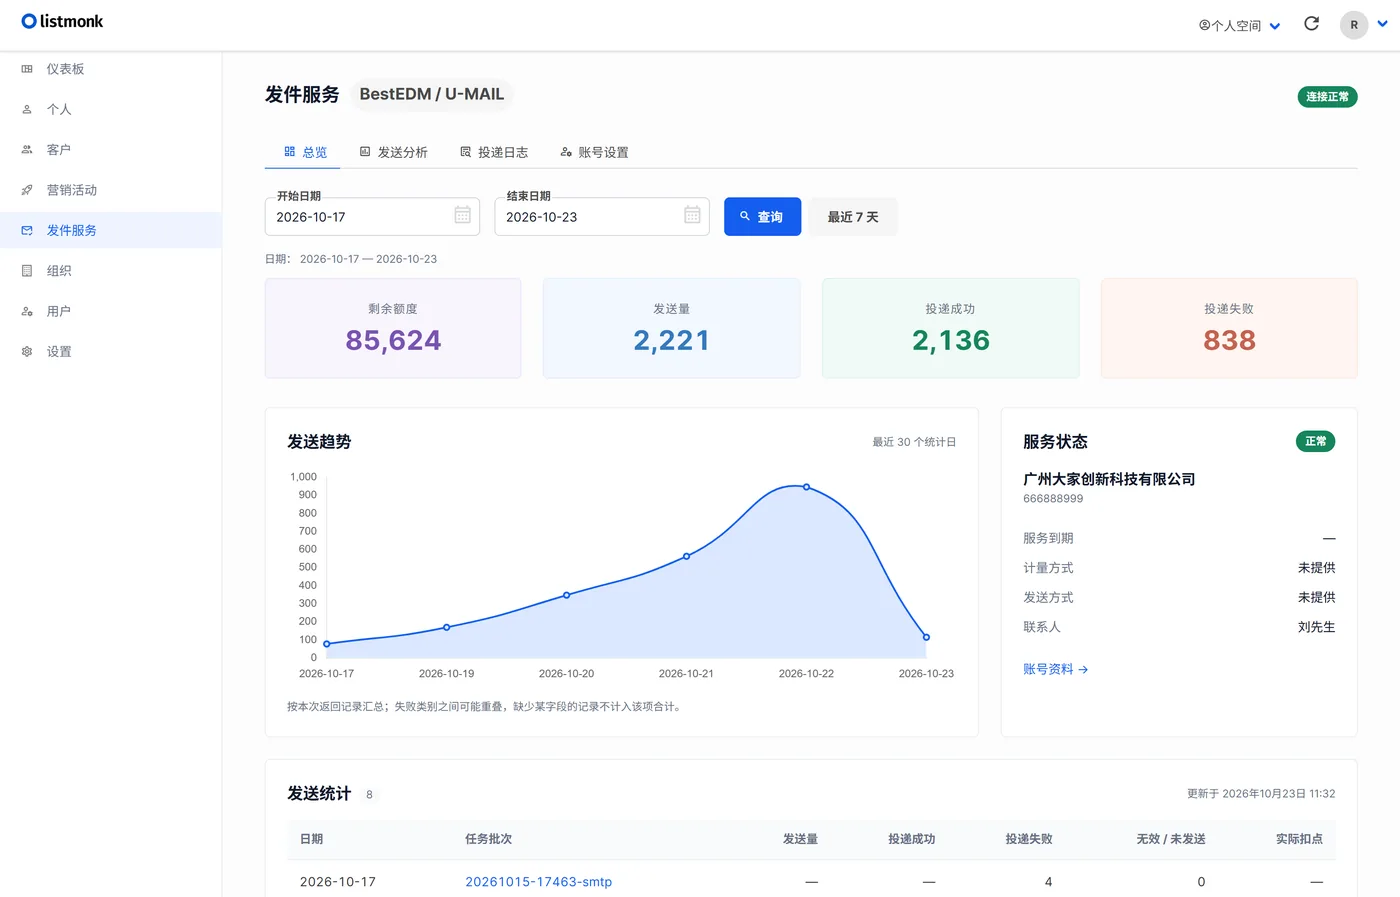
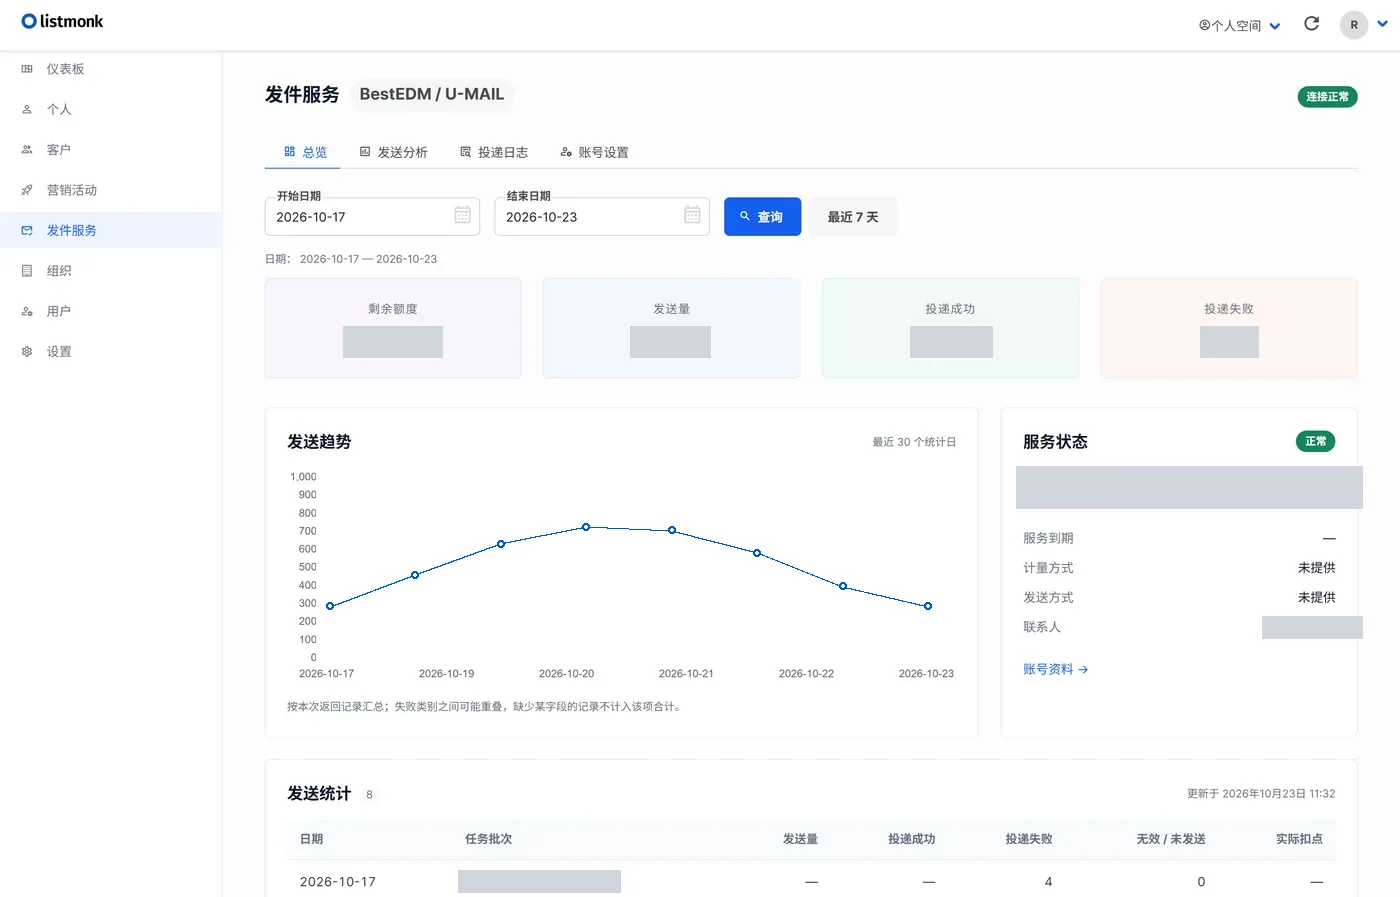
docs: document the agent skill in the README
Add an Agents section describing the bundled OpenClaw marketing skill, its references, scripts, setup steps and safety boundaries, link it from the navigation and hero figure, and document the delivery provider screenshot masking workflow.

diff --git a/README.md b/README.md
@@ -16,9 +16,10 @@
 [![API](https://img.shields.io/badge/API-REST%20%2B%20Swagger-85EA2D?logo=swagger&logoColor=black)](docs/swagger/)
 [![E2E](https://img.shields.io/badge/E2E-Cypress%20x49-17202C?logo=cypress&logoColor=white)](frontend/cypress/e2e)
 [![Migrations](https://img.shields.io/badge/Migrations-76-7a5af8)](internal/migrations)
+[![Agent Skill](https://img.shields.io/badge/Agent%20Skill-OpenClaw-6f42c1)](skills/listmonk-openclaw-marketing)
 [![i18n](https://img.shields.io/badge/i18n-zh--CN%20%7C%20zh--TW%20%7C%20en-ff6b6b)](i18n)
 
-[亮点](#highlights) · [功能概览](#features) · [界面导览](#screenshots) · [系统架构](#architecture) · [快速开始](#quickstart) · [技术文档](#techdocs) · [文档索引](#index)
+[亮点](#highlights) · [功能概览](#features) · [智能体接入](#agents) · [界面导览](#screenshots) · [系统架构](#architecture) · [快速开始](#quickstart) · [技术文档](#techdocs) · [文档索引](#index)
 
 </div>
 
@@ -40,6 +41,7 @@
   - [组织、工作区与权限](#f-org)
   - [发件池与 AI 回信](#f-delivery)
   - [媒体库与模板](#f-media)
+- [智能体接入](#agents)
 - [界面导览](#screenshots)
 - [系统架构](#architecture)
 - [快速开始](#quickstart)
@@ -251,6 +253,75 @@
 <td align="center"><sub><b>邮件模板</b> · 活动 / 事务模板与共享范围</sub></td>
 </tr>
 </table>
+
+<a id="agents"></a>
+
+## 智能体接入
+
+仓库自带一个可直接投喂给智能体平台的 **Skill**：`skills/listmonk-openclaw-marketing`。
+它把本部署的 REST 接口、权限边界和操作顺序固化成文档和脚本，
+让 OpenClaw 一类的智能体不必猜测参数就能完成营销操作。
+
+> Skill 是**给智能体读的说明书 + 一组受限脚本**，不是一个独立服务。
+> 它复用现有 API 与个人 API Key，不新增端口、不连接数据库、不绕过权限。
+
+### 包含内容
+
+| 文件 | 作用 |
+| --- | --- |
+| `SKILL.md` | 技能入口：适用场景、认证方式、标准流程、边界与红线 |
+| `references/api-reference.md` | 逐接口的参数、scope、返回值与脱敏规则 |
+| `references/rest-workflow.md` | 可照抄的执行顺序、curl 示例与异常恢复 |
+| `references/reply-ai.md` | AI 回信分类的能力边界与判读规则 |
+| `scripts/` | 9 个 Python 脚本，仅依赖标准库（Excel 需 `openpyxl`） |
+| `tests/` | 46 个测试，覆盖接口契约、CLI 参数与脚本行为 |
+| `agents/openai.yaml` | 智能体平台识别的技能元数据（名称、简介、默认提示词） |
+
+### 脚本
+
+| 脚本 | 用途 |
+| --- | --- |
+| `ensure_list.py` | 按 ID 复用或按名称查找 / 创建客户列表 |
+| `import_subscribers.py` | 从 JSON 或 .xlsx 导入私域客户 |
+| `clone_template.py` | 克隆模板到绑定工作区 |
+| `create_campaign.py` | 创建草稿，或复用已有活动作为内容蓝本 |
+| `update_campaign_status.py` | 启动、排期、暂停、取消或撤回排期 |
+| `fetch_campaign_reports.py` | 单活动 / 多活动 / 全工作区报表，可选地理分布 |
+| `inspect_campaign_delivery.py` | 只读：发送概览、失败原因与失败客户名单 |
+| `inspect_customer_replies.py` | 只读：客户活动与 AI 回信分类结论 |
+| `run_marketing_flow.py` | 串起列表 → 客户 → 模板 → 草稿 → 可选启动 |
+
+### 接入步骤
+
+1. 在 **Profile → API Keys** 创建个人 Key，勾选所需 scope（最小权限即可）。
+2. 把 `skills/listmonk-openclaw-marketing` 整个目录放进智能体平台的技能目录，
+   或将 `SKILL.md` 及其 `references/` 作为上下文加载。
+3. 在技能目录复制 [`.env.example`](skills/listmonk-openclaw-marketing/.env.example) 为 `.env` 并填写：
+
+```dotenv
+LISTMONK_BASE_URL=https://listmonk.example.com
+LISTMONK_BEARER_TOKEN=lmpk_...
+```
+
+4. 让智能体按任务读取对应 reference，再执行脚本或直接构造 REST 请求。
+
+键的优先级为：命令行 > 进程环境 > 技能目录 `.env` > 当前目录 `.env`，
+因此也可以完全不落盘，改用环境变量注入。
+
+### 安全边界
+
+- **Key 绑定工作区**：个人 Key 固定属于个人空间或某一个组织，跨工作区操作会被拒绝。
+- **最小 scope**：只读任务给只读 scope；`campaigns:send` 与 `transactional:send` 会真实发信。
+- **前缀白名单**：个人 Key 无法访问 `/api/settings`、`/api/pools/*`、
+  `/api/organizations/*`、`/api/profile/*` 等管理端点，即使角色权限更高也不行。
+- **只读优先**：两个 `inspect_*` 脚本不含任何写操作，适合先诊断再决策。
+- `.env` 已被 `.gitignore` 排除，不要把 Key 写进 SKILL.md 或提交记录。
+
+> 智能体做的是「按既定流程调用 API」。发送、补发、拉黑这类不可撤回的动作，
+> 仍应在人工确认后再触发。
+
+详见 [SKILL.md](skills/listmonk-openclaw-marketing/SKILL.md) 与 
+[API reference](skills/listmonk-openclaw-marketing/references/api-reference.md)。
 
 <a id="screenshots"></a>
 

diff --git a/docs/readme/README.md b/docs/readme/README.md
@@ -27,7 +27,7 @@
 | `settings.webp` | 设置页：常规标签。 |
 | `settings-smtp.webp` | 设置 › SMTP 投递设置。 |
 | `settings-inbound-ai.webp` | 设置 › 回信 AI 分类。 |
-| `delivery-provider.webp` | 发件服务：发送分析与投递日志。 |
+| `delivery-provider.webp` | 发件服务：发送分析与投递日志（已打码，见下节）。 |
 | `bounces.webp` | 退信列表。 |
 | `media-library.webp` | 媒体库：组织 / 所有者筛选。 |
 | `templates.webp` | 邮件模板列表。 |
@@ -38,6 +38,25 @@
 截图不是手工裁剪的。流程为：启动本仓库后端与演示数据 → 用 Playwright 以 1560×1000、DPR 2 的视口登录并逐页截图 → 统一缩放至 1400px 宽并转为 WebP（质量 82）。
 
 字段与列名如发生变化，请重新采集而不是沿用旧图。截图使用宿主机 Chrome，因此图中的中文字体渲染与最终读者环境可能略有差异。
+
+## 隐私打码
+
+`delivery-provider.webp` 这一页读的是**外部发件服务商的真实账号**，与演示库无关，
+因此必须逐项打码，不能原样发布：
+
+| 位置 | 处置 |
+| --- | --- |
+| 服务状态卡片里的公司名与账号 ID | 覆盖为中性灰底，宽度略大于原文 |
+| 联系人姓名 | 同上 |
+| 四个 KPI 数字（剩余额度 / 发送量 / 投递成功 / 投递失败） | 灰底遮住数值，保留标签 |
+| 发送趋势曲线 | **重绘为合成曲线**，真实曲线会透露每日发送量 |
+| 发送统计里的任务批次号 | 遮住，批次号内嵌真实时间戳 |
+
+打码使用不透明填充而不是模糊或马赛克——模糊后的中文仍可能被辨认。
+处理完成后用脚本逐块检查这些区域没有深色像素，确认没有字形残留再提交。
+
+其余截图全部来自本地演示库，客户、用户、组织均为 `example.com` / `example.org`
+的合成数据，不涉及真实主体。
 
 ## 约定
 

diff --git a/docs/README.md b/docs/README.md
@@ -8,6 +8,6 @@ This repository contains the source for the static website https://listmonk.app,
 - API specification: `docs/swagger/`.
 - README figures: `docs/readme/` holds the diagrams and UI screenshots used by the root `README.md`, with the capture and regeneration workflow described in `docs/readme/README.md`.
 - Translation workbench: `docs/i18n/` (served at https://listmonk.app/i18n), which edits the language packs in `i18n/`.
-- OpenClaw marketing skill: `skills/` (Python CLI + pytest tests). This is a toolset, not product code.
+- OpenClaw marketing skill: `skills/listmonk-openclaw-marketing` (SKILL.md + `references/` + Python CLI + unittest suite). It packages this deployment's REST contracts and permission boundaries for agent platforms such as OpenClaw; it is a toolset, not product code, and the root `README.md` exposes it in its 智能体接入 section.
 
 - Documentation is validated with `python scripts/check_docs.py` (nav reachability, in-page anchors, relative links) and `mkdocs build --strict`; both run in `.github/workflows/docs-sanity.yml` on every push to a pull request that touches `docs/**`.
